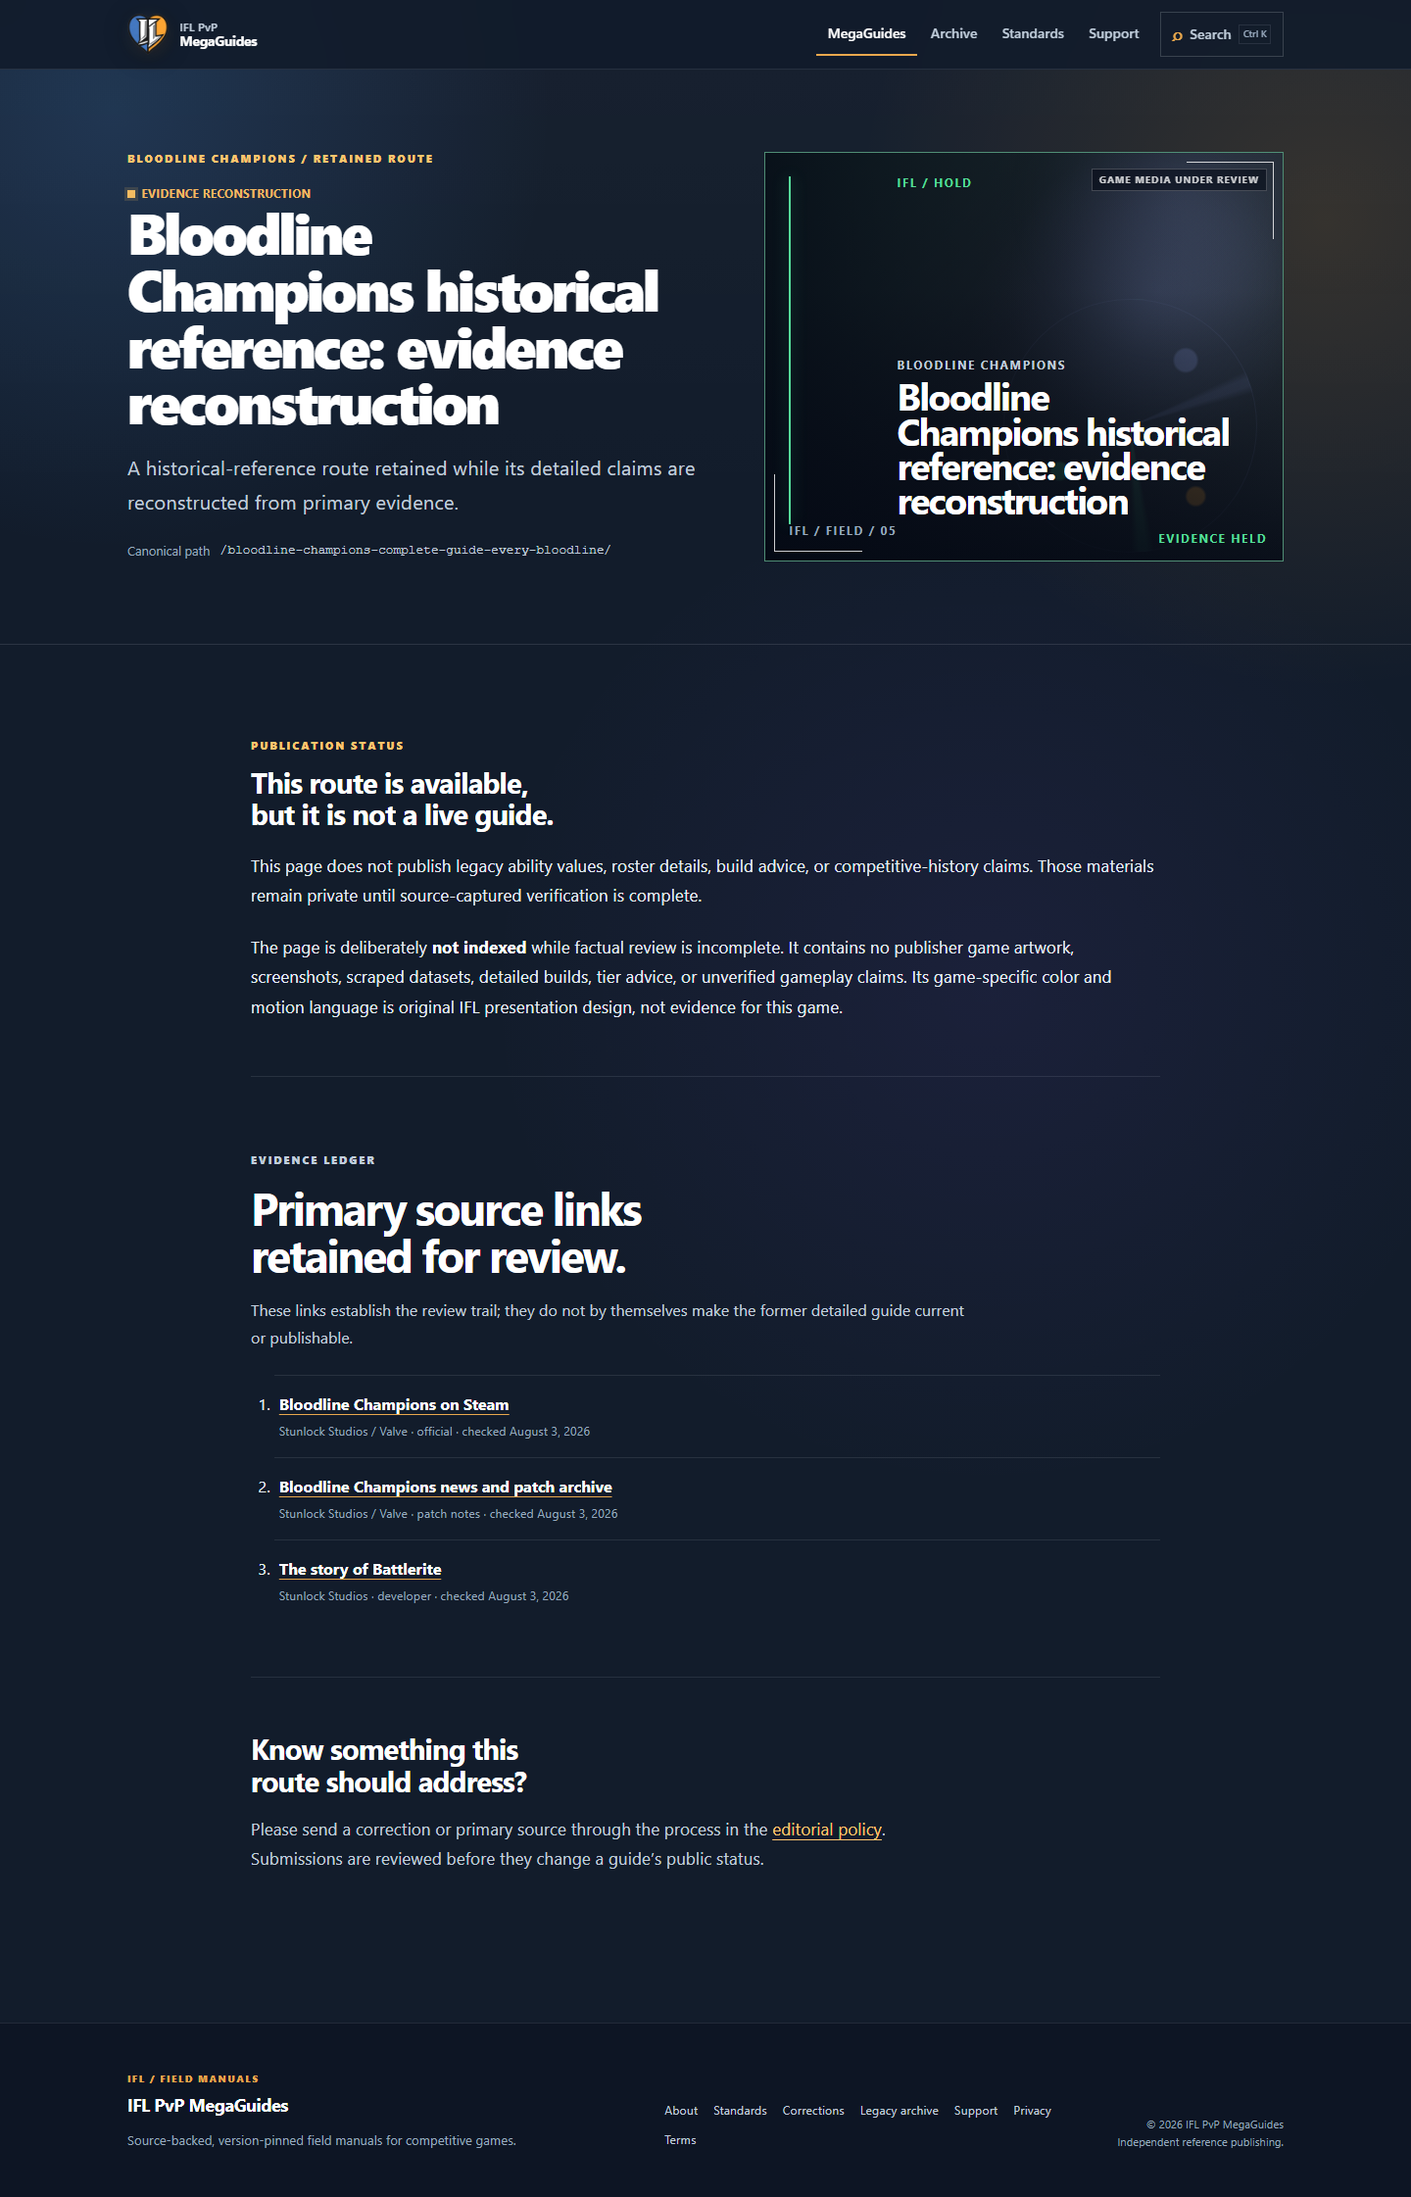
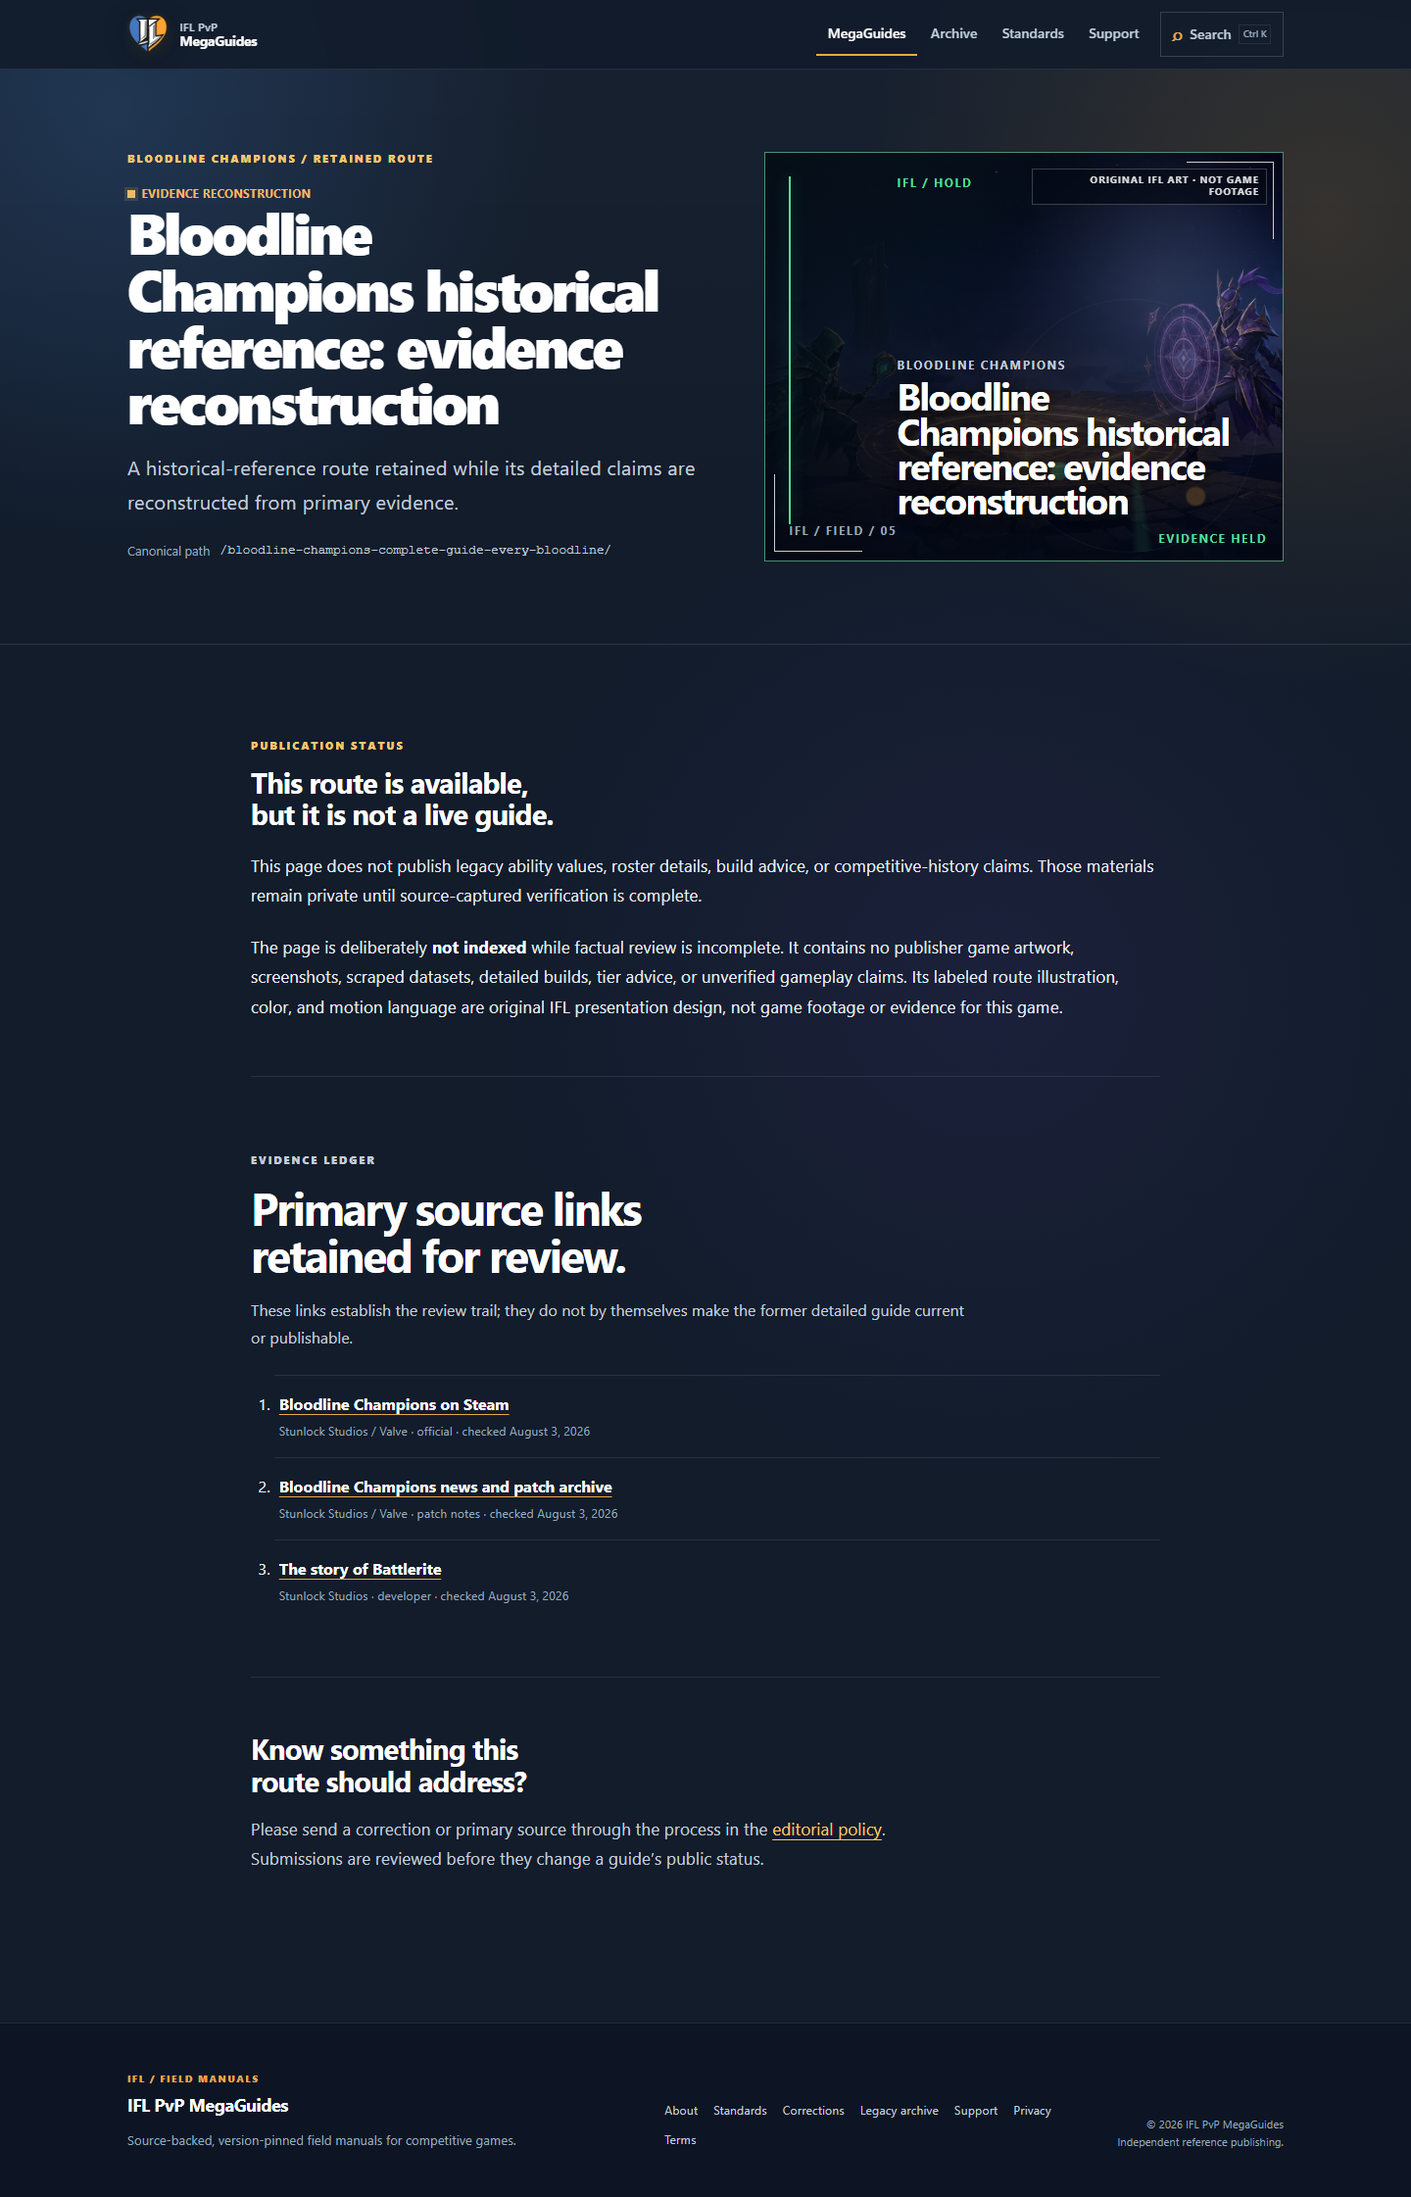
feat: restore original route artwork (#24)

diff --git a/src/data/public-content.ts b/src/data/public-content.ts
@@ -7,6 +7,8 @@
  * a person completes a factual review.
  */
 
+import { PUBLIC_GAME_SCENE_PATHS } from '../lib/public-game-scenes.mjs';
+
 export type SourceKind = 'official' | 'developer' | 'patch-notes';
 export type GameKey = 'battlerite' | 'gigantic' | 'gunz' | 'marvel-rivals' | 'bloodline-champions';
 
@@ -48,8 +50,9 @@ export interface PublicMegaGuide {
   readonly confidence: 'low' | 'medium';
   readonly review: ReviewDue;
   readonly sources: readonly EvidenceSource[];
-  /** Publisher media stays unavailable until an exact public-display grant is recorded. */
-  readonly visual: 'game-identity-under-review';
+  /** First-party decorative art; never publisher media or guide evidence. */
+  readonly coverAsset: string;
+  readonly visual: 'original-ifl-illustration';
   /** Original public summaries are copyright-reserved; application code is separately licensed. */
   readonly contentRights: 'editorial-text-reserved';
 }
@@ -63,7 +66,8 @@ export interface EvidenceHoldNotice {
   readonly game: string;
   readonly gameKey: GameKey;
   readonly sources: readonly EvidenceSource[];
-  readonly visual: 'game-identity-under-review';
+  readonly coverAsset: string;
+  readonly visual: 'original-ifl-illustration';
   readonly contentRights: 'editorial-text-reserved';
 }
 
@@ -91,6 +95,7 @@ export const PUBLIC_MEGA_GUIDES = [
       'This route is retained while the complete champion and mechanics reference is reviewed against primary historical sources. No detailed roster, ability, or balance claims are published here yet.',
     game: 'Battlerite',
     gameKey: 'battlerite',
+    coverAsset: PUBLIC_GAME_SCENE_PATHS.battlerite,
     gameVersion: 'Final content build 2.3.0 (October 2019); maintenance status requires review',
     platforms: ['Windows'],
     guideStatus: 'stable',
@@ -125,7 +130,7 @@ export const PUBLIC_MEGA_GUIDES = [
         type: 'patch-notes',
       },
     ],
-    visual: 'game-identity-under-review',
+    visual: 'original-ifl-illustration',
     contentRights: 'editorial-text-reserved',
   },
   {
@@ -138,6 +143,7 @@ export const PUBLIC_MEGA_GUIDES = [
       'This route is retained while the legacy material is reconciled with current official roster information. It intentionally publishes no hero builds, matchup advice, or balance guidance.',
     game: 'Gigantic: Rampage Edition',
     gameKey: 'gigantic',
+    coverAsset: PUBLIC_GAME_SCENE_PATHS.gigantic,
     gameVersion: 'Legacy 21-hero subset; not the full current roster',
     platforms: ['Windows', 'PlayStation', 'Xbox'],
     guideStatus: 'stable',
@@ -165,7 +171,7 @@ export const PUBLIC_MEGA_GUIDES = [
         type: 'official',
       },
     ],
-    visual: 'game-identity-under-review',
+    visual: 'original-ifl-illustration',
     contentRights: 'editorial-text-reserved',
   },
   {
@@ -178,6 +184,7 @@ export const PUBLIC_MEGA_GUIDES = [
       'This route is retained while historical mechanics and any current-release context are reviewed. Detailed movement inputs, frame claims, and weapon guidance remain private until they are source-checked.',
     game: 'GunZ: The Duel',
     gameKey: 'gunz',
+    coverAsset: PUBLIC_GAME_SCENE_PATHS.gunz,
     gameVersion: 'Legacy mechanics; current-release context requires review',
     platforms: ['Windows'],
     guideStatus: 'active',
@@ -205,7 +212,7 @@ export const PUBLIC_MEGA_GUIDES = [
         type: 'official',
       },
     ],
-    visual: 'game-identity-under-review',
+    visual: 'original-ifl-illustration',
     contentRights: 'editorial-text-reserved',
   },
   {
@@ -218,6 +225,7 @@ export const PUBLIC_MEGA_GUIDES = [
       'The earlier guide referenced Season 9 and a July 2026 balance baseline. That material is due for review and remains unavailable here until every current claim is verified from primary sources.',
     game: 'Marvel Rivals',
     gameKey: 'marvel-rivals',
+    coverAsset: PUBLIC_GAME_SCENE_PATHS['marvel-rivals'],
     gameVersion: 'Season 9 / July 2026 baseline under review',
     platforms: ['Windows', 'PlayStation 4', 'PlayStation 5', 'Xbox Series X|S'],
     guideStatus: 'active',
@@ -259,7 +267,7 @@ export const PUBLIC_MEGA_GUIDES = [
         type: 'official',
       },
     ],
-    visual: 'game-identity-under-review',
+    visual: 'original-ifl-illustration',
     contentRights: 'editorial-text-reserved',
   },
 ] as const satisfies readonly PublicMegaGuide[];
@@ -280,6 +288,7 @@ export const PUBLIC_EVIDENCE_HOLDS = [
       'This page does not publish legacy ability values, roster details, build advice, or competitive-history claims. Those materials remain private until source-captured verification is complete.',
     game: 'Bloodline Champions',
     gameKey: 'bloodline-champions',
+    coverAsset: PUBLIC_GAME_SCENE_PATHS['bloodline-champions'],
     sources: [
       {
         title: 'Bloodline Champions on Steam',
@@ -303,7 +312,7 @@ export const PUBLIC_EVIDENCE_HOLDS = [
         type: 'developer',
       },
     ],
-    visual: 'game-identity-under-review',
+    visual: 'original-ifl-illustration',
     contentRights: 'editorial-text-reserved',
   },
 ] as const satisfies readonly EvidenceHoldNotice[];

diff --git a/governance/generated-assets.md b/governance/generated-assets.md
@@ -27,3 +27,68 @@ Final prompt:
 Final prompt:
 
 > Create a restrained, graphic, non-photoreal illustration that suggests competitive fantasy PvP without looking like detailed game key art. A simplified fantasy arena expressed through large geometric stone arches, a curved wall, abstract banner shapes, and a soft open sky. On the right third, two small original combat silhouettes face off—one broad shield fighter and one agile spellblade—with one subtle arc of blue energy. Sophisticated editorial cel-shaded illustration, flat poster design, graphic-novel-inspired shapes, crisp silhouettes, limited detail, subtle screen-print grain, premium modern esports branding. Very wide 21:9 banner; leave the entire left 55 percent calm and mostly abstract for website copy. Deep IFL navy, muted slate blue, warm amber-gold, restrained electric cyan, and small ivory highlights. Wholly original scene and silhouettes; no existing character, faction, costume, weapon, arena, logo, trademark, title, UI, text, watermark, gore, or franchise-specific expression. Avoid photorealism, detailed faces, realistic armor textures, complex spell effects, cinematic explosions, giant crowds, busy composition, glossy AAA key art, painterly realism, and montage.
+
+## `public/brand/game-scenes/battlerite-v1.webp`
+
+- Generated: 2026-08-04
+- Workflow: built-in OpenAI image generation, then deterministic metadata stripping and WebP conversion at quality 86
+- Purpose: original arena-duel atmosphere for the Battlerite evidence-held route
+- Boundary: franchise-neutral fighters and arena; never a screenshot, character likeness, or evidence for Battlerite
+- Source render: 1672 × 941 PNG
+- Public rendition: 1672 × 941 WebP
+
+Final prompt:
+
+> Create an original 16:9 guide-card illustration of a top-down competitive arena duel: an ice archer-mage faces a nimble melee rival in a simple circular stone arena. Use generic original character designs, polished cel shading, low-to-medium detail, crisp silhouettes, and a cyan, indigo, and lime palette. Preserve useful negative space for editorial overlays. No text, logos, UI, watermark, known characters, publisher assets, photorealism, gore, or excessive particle effects.
+
+## `public/brand/game-scenes/gigantic-v1.webp`
+
+- Generated: 2026-08-04
+- Workflow: built-in OpenAI image generation, then deterministic metadata stripping and WebP conversion at quality 86
+- Purpose: original large-scale team-arena atmosphere for the Gigantic evidence-held route
+- Boundary: abstract guardians and original fighters; never a screenshot, character likeness, or evidence for Gigantic
+- Source render: 1672 × 941 PNG
+- Public rendition: 1672 × 941 WebP
+
+Final prompt:
+
+> Create a bright, original 16:9 competitive team-arena illustration with two small original fighters facing one another beneath huge abstract guardian silhouettes. Set it in an open fantastical arena with monumental platforms and an airy sky. Use bold flat cel shading, readable silhouettes, and an aqua, coral, cream, and navy palette. No text, logos, trademarks, UI, watermark, recognized characters, publisher assets, or franchise-specific costumes.
+
+## `public/brand/game-scenes/gunz-v1.webp`
+
+- Generated: 2026-08-04
+- Workflow: built-in OpenAI image generation, then deterministic metadata stripping and WebP conversion at quality 86
+- Purpose: original movement-duel atmosphere for the GunZ evidence-held route
+- Boundary: original rooftop fighters; never a screenshot, character likeness, or evidence for GunZ
+- Source render: 1672 × 941 PNG
+- Public rendition: 1672 × 941 WebP
+
+Final prompt:
+
+> Create an original 16:9 early-2000s arcade-anime rooftop duel: one generic fighter carries a sword and pistol while another uses dual pistols and a light blade, both caught in a stylized wall-run or aerial movement exchange. Use a simplified twilight city, clean cel shading, useful negative space, and a charcoal, navy, brick-red, and electric-blue palette. No text, logos, UI, branding, watermark, gore, known characters, publisher assets, or franchise-specific expression.
+
+## `public/brand/game-scenes/superhero-team-brawler-v1.webp`
+
+- Generated: 2026-08-04
+- Workflow: built-in OpenAI image generation, then deterministic metadata stripping and WebP conversion at quality 86
+- Purpose: original superhero team-brawler atmosphere for the Marvel Rivals evidence-held route
+- Boundary: entirely original heroes; never Marvel art, a screenshot, a character likeness, or evidence for Marvel Rivals
+- Source render: 1672 × 941 PNG
+- Public rendition: 1672 × 941 WebP
+
+Final prompt:
+
+> Create a vibrant 16:9 futuristic superhero-team clash featuring three entirely original heroes: a shield defender, an agile blaster, and a flying support. Use comic cel shading, subtle halftone texture, clean silhouettes, moderate action, and a red, yellow, green, and cobalt palette. No franchise elements, existing character likenesses, logos, text, UI, watermark, publisher assets, or recognizable costumes.
+
+## `public/brand/game-scenes/bloodline-v1.webp`
+
+- Generated: 2026-08-04
+- Workflow: built-in OpenAI image generation, then deterministic metadata stripping and WebP conversion at quality 86
+- Purpose: original magical-duel atmosphere for the Bloodline Champions evidence-held route
+- Boundary: original magical combatants; never a screenshot, character likeness, or evidence for Bloodline Champions
+- Source render: 1672 × 941 PNG
+- Public rendition: 1672 × 941 WebP
+
+Final prompt:
+
+> Create an original 16:9 dark-but-colorful magical arena duel with two generic stylized combatants orbiting a glowing central sigil. Use polished cel shading, low-to-medium detail, readable silhouettes, useful negative space, and an emerald, violet, and amber palette. No text, logos, UI, watermark, known characters, publisher assets, gore, photorealism, or franchise-specific expression.

diff --git a/ASSET-GOVERNANCE.md b/ASSET-GOVERNANCE.md
@@ -4,7 +4,7 @@ This public repository is deny-by-default for non-text assets. A public URL, att
 
 ## Launch boundary
 
-The public release contains six approved first-party presentation assets: the reserved IFL PvP logo, two project-directed franchise-neutral illustrations, the social card generated with the logo, and two local-build interface captures recorded in the public asset allowlist. The standalone logo and both illustrations remain outside the MIT code license. The genre-world scene and simplified fantasy arena silhouettes are decorative original art—not screenshots, publisher art, or representations of any covered game. Publisher game artwork, gameplay screenshots, video, audio, publisher logos, third-party fonts, author portraits, collected source media, and any unreviewed social asset are excluded.
+The public release contains eleven approved first-party presentation assets: the reserved IFL PvP logo, two project-directed franchise-neutral hero illustrations, five original route illustrations, the social card generated with the logo, and two local-build interface captures recorded in the public asset allowlist. The standalone logo and all seven illustrations remain outside the MIT code license. The genre-world scene, simplified fantasy arena silhouettes, and route scenes are decorative original art—not screenshots, publisher art, game footage, or evidence for any covered game. Publisher game artwork, gameplay screenshots, video, audio, publisher logos, third-party fonts, author portraits, collected source media, and any unreviewed social asset are excluded.
 
 Any future non-text asset must have exactly one approved entry in [governance/public-asset-allowlist.json](governance/public-asset-allowlist.json). The entry must record its exact path, SHA-256 digest, creator or source, rights basis, applicable license or permission, approval date, reviewer, and redistribution status.
 

diff --git a/README.md b/README.md
@@ -28,7 +28,7 @@ The production site remains at [iflpvp.com](https://iflpvp.com). This repository
 
 ## Product preview
 
-These captures come from this repository’s first-party public interface. The design uses the reserved IFL PvP mark, an original arena hero, game-specific color and motion treatments, CSS effects, and system typography; it contains no unapproved publisher artwork, game screenshots, remote fonts, or historical media.
+These captures come from this repository’s first-party public interface. The design uses the reserved IFL PvP mark, an original arena hero, five labeled original route illustrations, CSS effects, and system typography; it contains no unapproved publisher artwork, game screenshots, remote fonts, or historical media.
 
 <p>
   <img src="docs/screenshots/home-desktop.png" width="49%" alt="IFL PvP MegaGuides desktop home with an original arena hero and game-specific evidence-led guide library" />

diff --git a/src/data/PUBLIC-CONTENT-NOTES.md b/src/data/PUBLIC-CONTENT-NOTES.md
@@ -30,9 +30,11 @@ font binaries, game logos, hero data, ability data, and all scraped or
 synchronized datasets. Those materials remain in the private source
 archive pending separate rights and evidence review.
 
-The homepage fantasy arena presentation is original, hash-pinned project art. Game
-cards use a distinct first-party color and motion system while publisher media is
-under review. The card treatment is decorative and is never guide evidence.
+The homepage fantasy arena presentation and five route scenes are original,
+hash-pinned project art. Each route scene uses a distinct first-party composition
+to restore visual game-genre identity while publisher media remains unavailable.
+Every scene is visibly labeled as an original IFL illustration, not game footage;
+the treatment is decorative and is never guide evidence.
 
 ## Route state
 

diff --git a/governance/game-media-policy.md b/governance/game-media-policy.md
@@ -18,7 +18,7 @@ The MIT license never applies to game media. A public-display grant alone is not
 
 ## Runtime behavior
 
-Every page must remain complete when publisher media is unavailable. Until an exact asset is approved, the interface renders a game-specific first-party treatment and an honest media-under-review label. It must never emit an `<img>` with a missing or blocked source.
+Every page must remain complete when publisher media is unavailable. Unless an exact publisher asset is approved, the interface may render only an allowlisted first-party treatment with an honest label such as “Original IFL art · not game footage.” It must never emit an `<img>` with a missing or blocked source.
 
 The release gate checks both sides of this contract:
 
